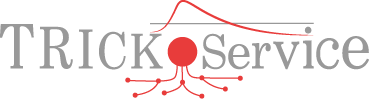
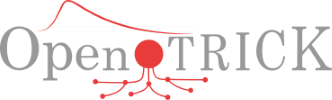
Update images and fix bug

Changed region(s): [[0.0, 0.0, 1.0, 1.0]]

diff --git a/src/main/webapp/WEB-INF/static/css/main.css b/src/main/webapp/WEB-INF/static/css/main.css
@@ -31,8 +31,8 @@ body {
 }
 
 #main_menu_brand>img {
-	width: 150px;
-	margin: -10px 0px 0 0px;
+	margin: -10px -5px 0px 0px;
+  	height: 40px;
 }
 
 #main_menu_brand>img.brand-white {
@@ -1051,6 +1051,12 @@ input[type=date]:disabled {
 .home-logo img{
 	height: 250px; 
 	margin-bottom: -125px;
+}
+
+.home-logo+hr{
+  border-top-color: #3e3e3e;
+  margin-top: -4px;
+  z-index: -1;
 }
 
 @media (min-width: 768px) {

diff --git a/src/main/java/lu/itrust/business/ts/model/analysis/AnalysisSetting.java b/src/main/java/lu/itrust/business/ts/model/analysis/AnalysisSetting.java
@@ -18,7 +18,7 @@ public enum AnalysisSetting {
 			AnalysisType.HYBRID),
 	ALLOW_FULL_COST_RELATED_TO_MEASURE("label.analysis.setting.allow_full_cost_related_to_measure", Boolean.class,
 			false),
-	ALLOW_ILR_ANALYSIS("label.analysis.setting.allow_ilr_analysis", Boolean.class, false),
+	ALLOW_ILR_ANALYSIS("label.analysis.setting.allow_ilr_analysis", Boolean.class, false,AnalysisType.HYBRID,AnalysisType.QUALITATIVE),
 	ALLOW_RISK_HIDDEN_COMMENT("label.analysis.setting.allow_hidden_comment", Boolean.class, true),
 	ALLOW_DYNAMIC_ANALYSIS(
 			"label.analysis.setting.allow_dynamic_analysis", Boolean.class, false, AnalysisType.QUANTITATIVE,

diff --git a/src/main/java/lu/itrust/business/ts/model/actionplan/summary/computation/impl/SummaryComputationQuantitative.java b/src/main/java/lu/itrust/business/ts/model/actionplan/summary/computation/impl/SummaryComputationQuantitative.java
@@ -246,6 +246,7 @@ public class SummaryComputationQuantitative extends SummaryComputation {
 				measures.stream().forEach(m -> {
 					final double implR = (m.getPhase().getNumber() < number ? 100
 							: m.getImplementationRateValue(getValueFactory())) * 0.01;
+							
 					maintenanceRecurrentInvestment.add(m.getInternalMaintenance() * implR,
 							m.getExternalMaintenance() * implR, m.getRecurrentInvestment() * implR);
 
